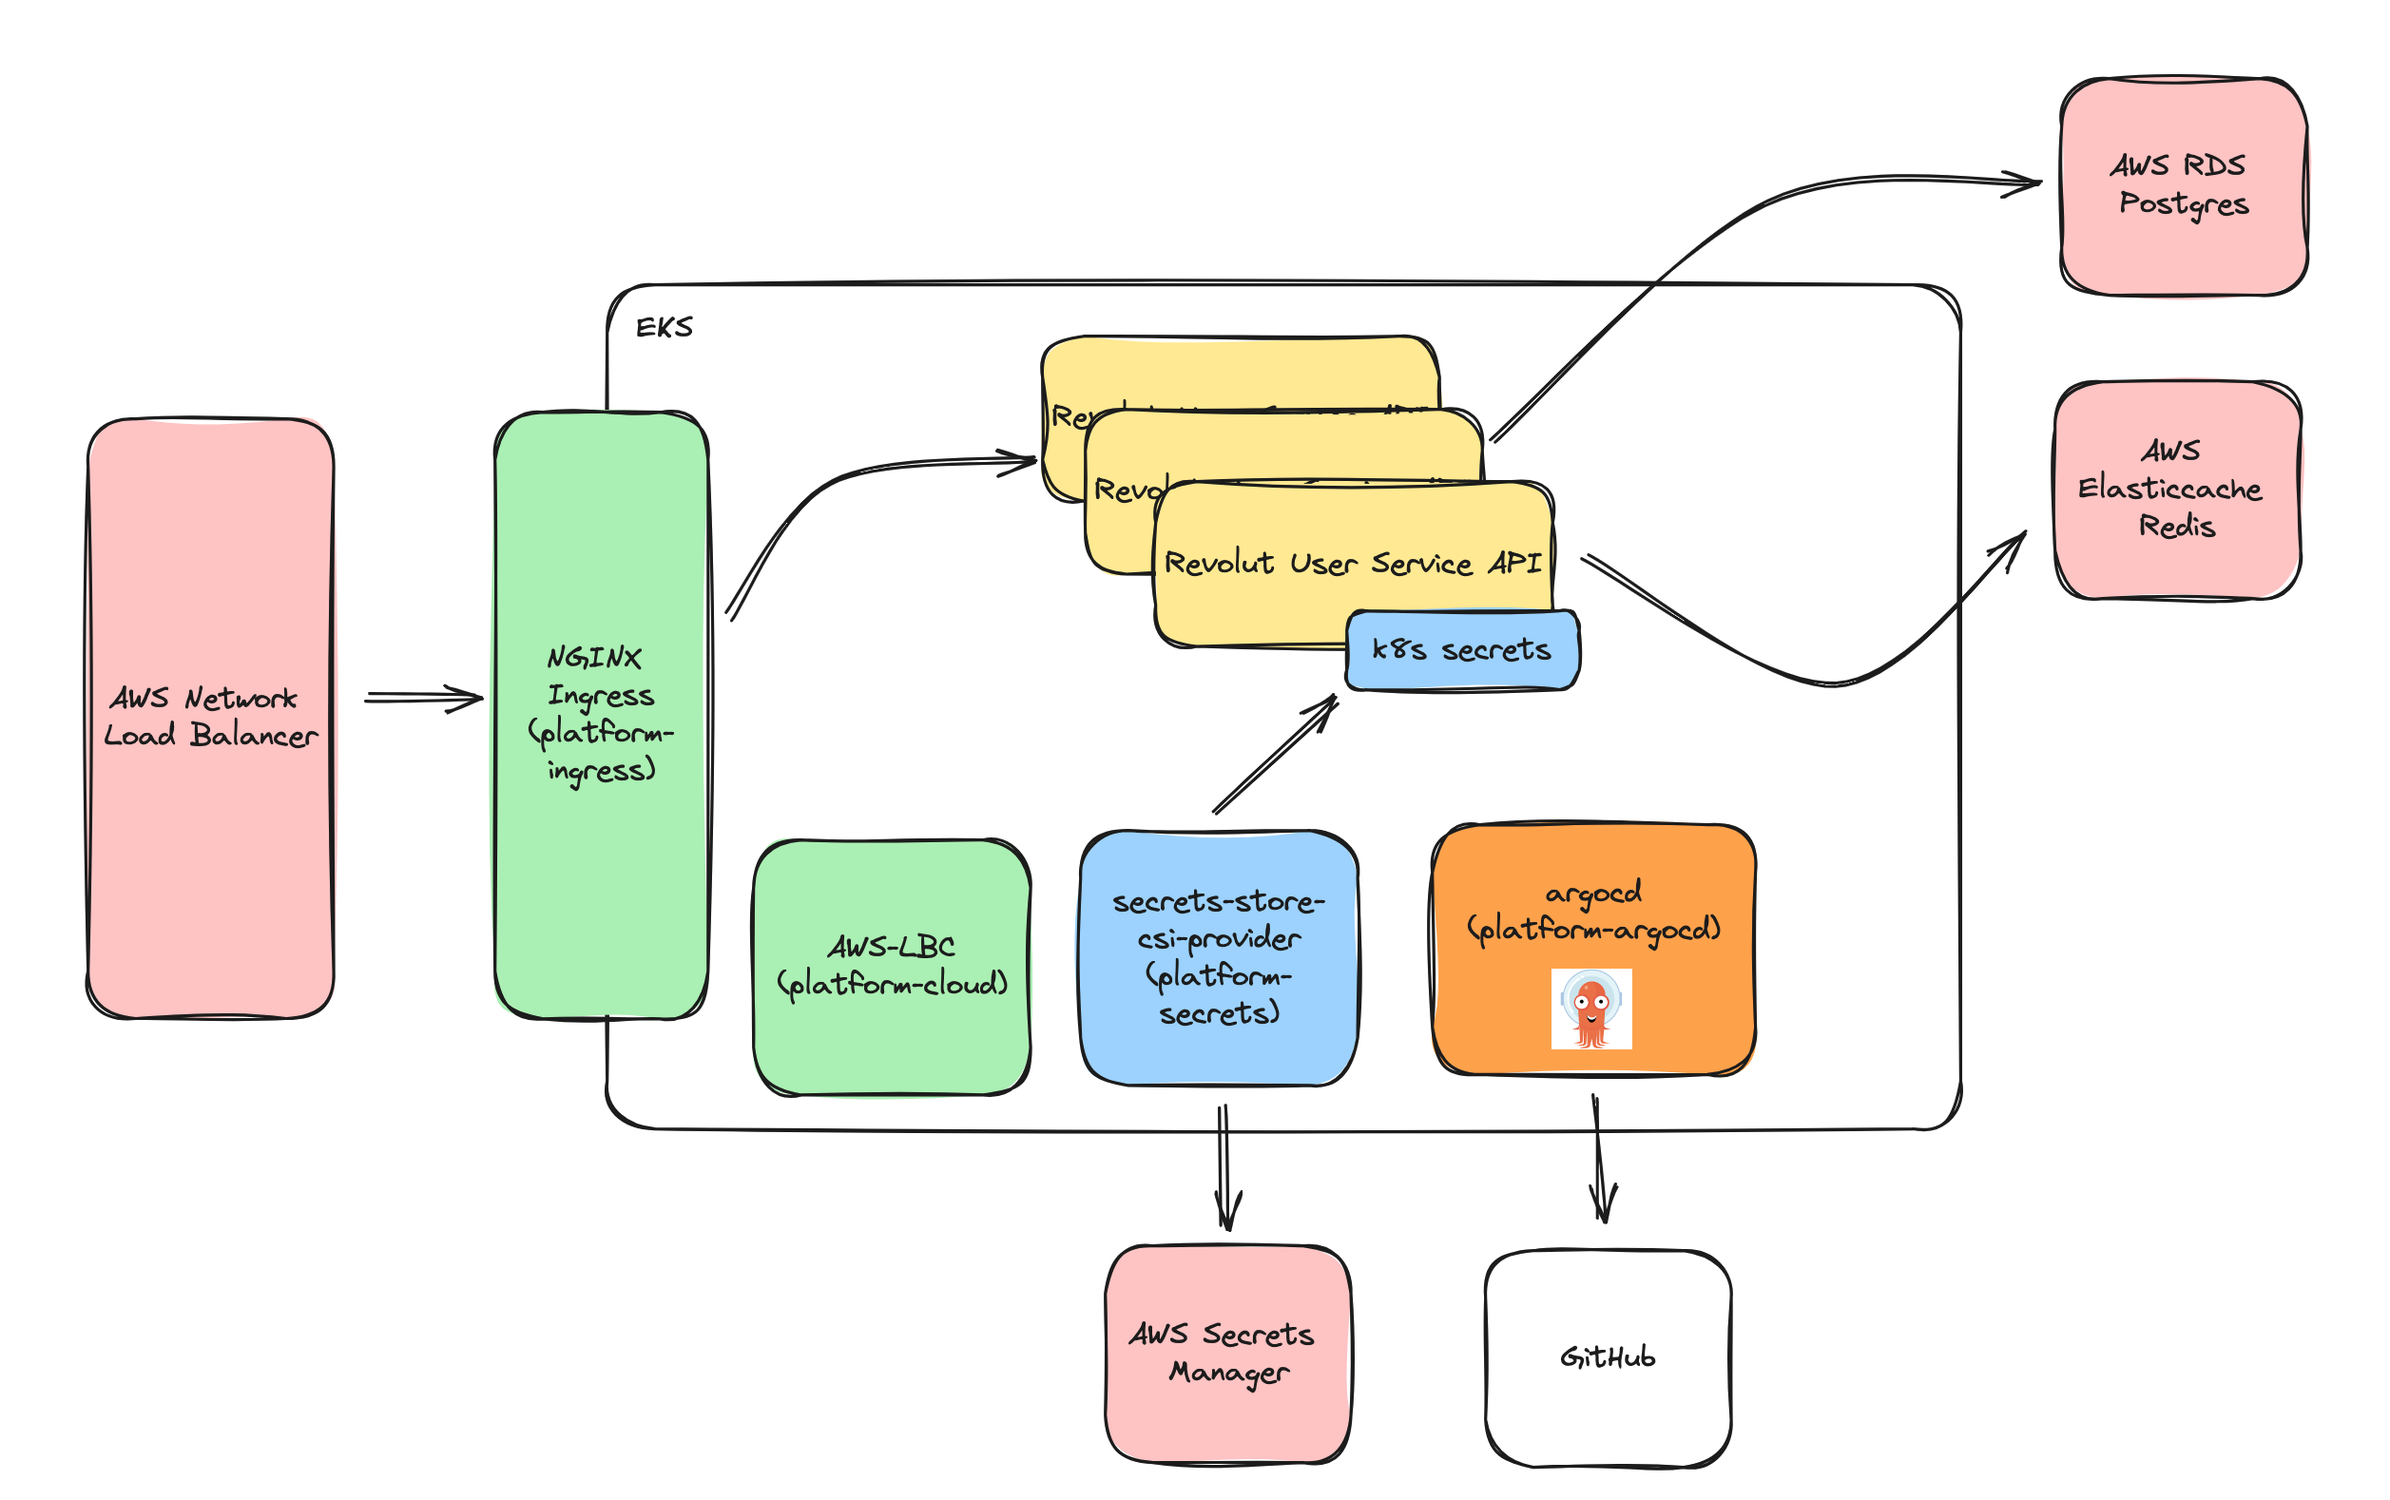
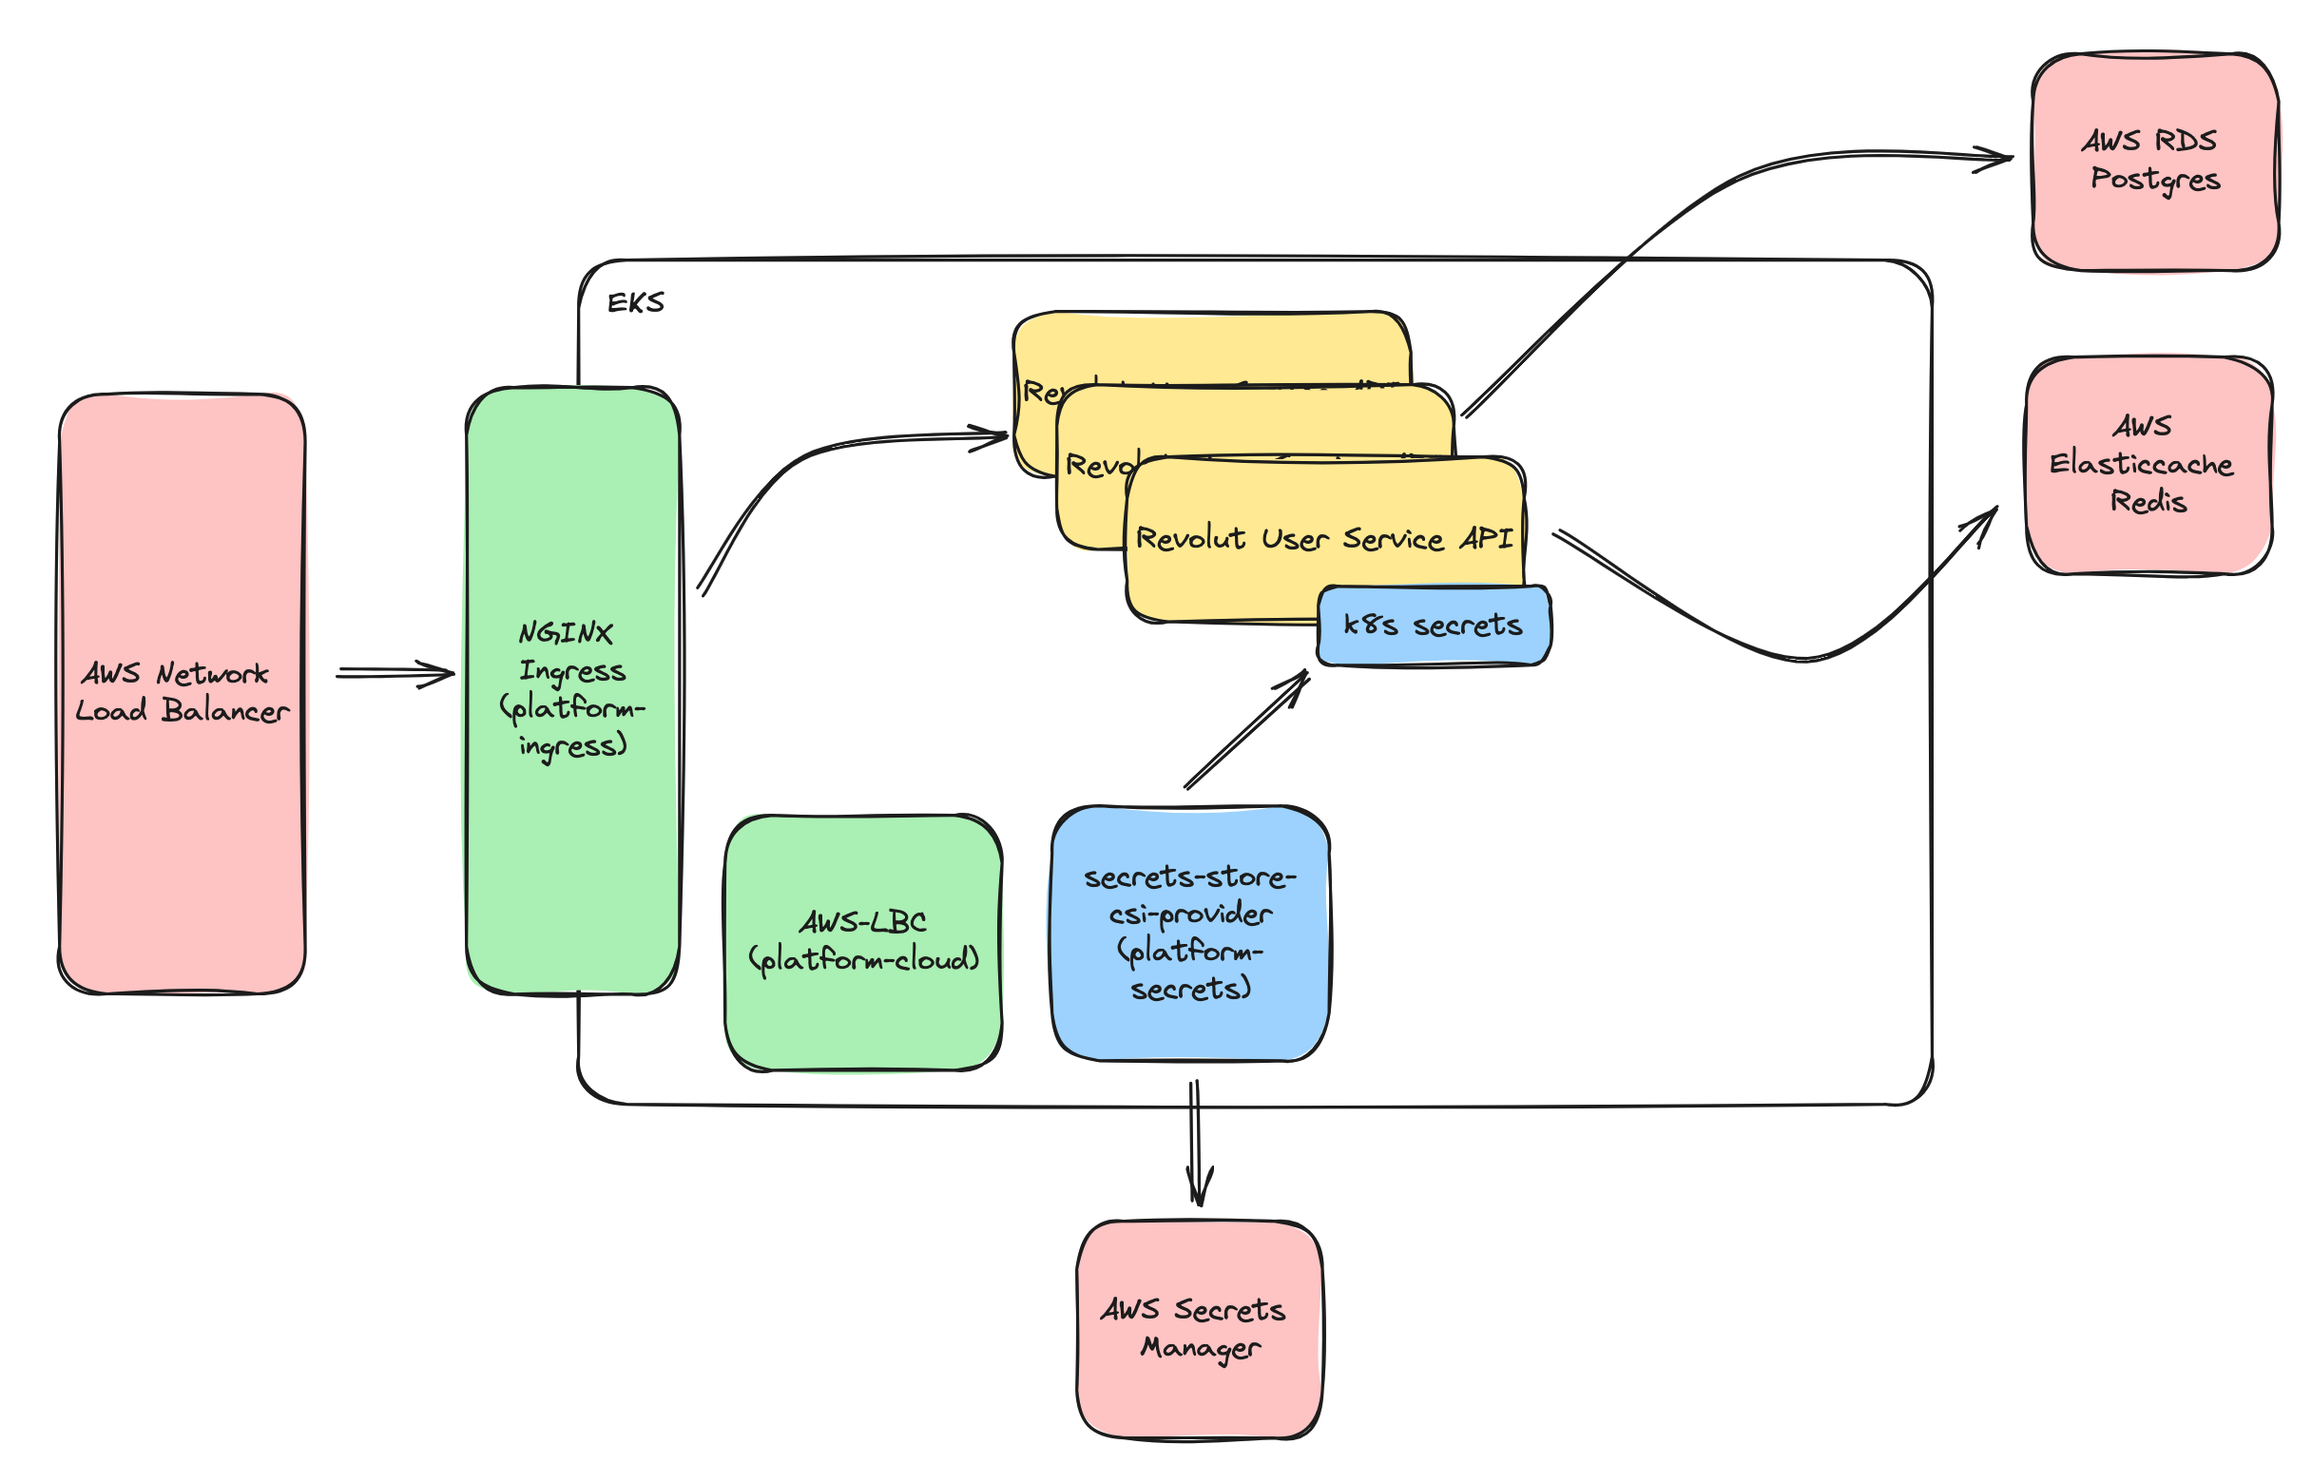
update nodegroup

diff --git a/docs/quick-start.md b/docs/quick-start.md
@@ -1,8 +1,12 @@
 # Quick Start
 
-0. Install `aws` CLI by following the instructions [here](https://docs.aws.amazon.com/cli/latest/userguide/getting-started-install.html) and create an AWS account for `terraform` with `AdministratorAccess` permission.
+## 0. Pre-requisites
 
-1. Provision all the cloud resources
+1. Install `aws` CLI by following the instructions [here](https://docs.aws.amazon.com/cli/latest/userguide/getting-started-install.html)
+2. Create an AWS account for `terraform` with `AdministratorAccess` permission.
+
+## 1. Provision AWS Cloud resources
+
 ```bash
 aws configure --profile terraform
 
@@ -11,9 +15,10 @@ terraform apply
 
 # Configure kube context
 aws eks update-kubeconfig --region eu-west-1 --name eks --profile terraform
+export EKS_KUBECTL_CONTEXT=`kubectl config current-context`
 ```
 
-2. Store the values of the following terraform output:
+Store the values of the following terraform output:
    * `aws_lbc_role_arn`
    * `ecr_repo_url`
    * `elasticache_cluster_configuration_endpoint`
@@ -22,44 +27,57 @@ aws eks update-kubeconfig --region eu-west-1 --name eks --profile terraform
    * `rds_password_secret_name`
    * `revolut_user_service_role_arn`
 
+## 2. Build Revolut User Service
 
-3. Clone `revolut-user-service`, run the following commands to build and push docker image:
+Clone `revolut-user-service`, run the following commands to build and push docker image:
+
 ```bash
-export IMAGE_TAG=`git describe --dirty --always`
+export IMAGE_TAG="0.1.0"
 export CONTAINER_REGISTRY=<ecr_repo_url from terraform (without the repo)>
 export CONTAINER_REPOSITORY=revolut-user-service
+
 make docker
 make docker-push
 ```
 
-4. Clone [`revolut-gitops-k8s`](https://github.com/awhdesmond/revolut-gitops-k8s) repository.
+## 3. Deploy EKS Platform Components
 
-5. In `revolut-gitops-k8s`, run the following commands to deploy platform components:
+Clone [`revolut-gitops-k8s`](https://github.com/awhdesmond/revolut-gitops-k8s) repository.
+
+In `revolut-gitops-k8s`, run the following commands to deploy platform components:
+
 ```bash
 # Use the output from terraform: aws_lbc_role_arn
 export AWS_LBC_ROLE_ARN=<aws_lbc_role_arn from terraform output>
 
-sed -i '' \
-    -e "s|eks.amazonaws.com\/role-arn:.*|eks.amazonaws.com/role-arn: ${AWS_LBC_ROLE_ARN}|g" \
-    kustomize/platform/components/aws-lbc/base/templates/serviceaccount.yaml
+./scripts/update-aws-fields-platform.sh
 
-make platform KUBE_CONTEXT=<EKS_KUBECTL_CONTEXT> ENV=prod
+make platform KUBE_CONTEXT=${EKS_KUBECTL_CONTEXT}
 ```
 
 > `aws-lbc` also requires the EKS cluster name. In this example, we are using `eks`.
 
 
-6. In `revolut-gitops-k8s`, run the following commands to deploy application components:
+## 4. Deploy Revolut User Service
+
+In `revolut-gitops-k8s`, run the following commands to deploy application components:
+
 ```bash
-export USER_SERVICE_ROLE_ARN=arn:aws:iam::974860574511:role/eks-revolut-user-service-role
+export USER_SERVICE_ROLE_ARN=<revolut_user_service_role_arn from terraform >
+export RDS_HOST=<first rds_hostnames from terraform>
+export REDIS_URI=<elasticache_cluster_configuration_endpoint from terraform>
 
-pushd kustomize/apps/components/user-service/api/prod
-sed -i '' \
-    -e "s|eks.amazonaws.com\/role-arn:.*|eks.amazonaws.com/role-arn: ${USER_SERVICE_ROLE_ARN}|g" \
-    sa.yaml
+./scripts/update-aws-fields-user-service.sh
 
-kustomize edit set image revolut-user-service=${CONTAINER_REGISTRY}/${CONTAINER_REPOSITORY}:${IMAGE_TAG}
-popd
+make user-service KUBE_CONTEXT=${EKS_KUBECTL_CONTEXT}
+```
 
-make user-service KUBE_CONTEXT=<EKS_KUBECTL_CONTEXT> ENV=<ENV>
+## 5. Perform Queries
+
+```bash
+export NGINX_NLB_HOSTNAME=`kubectl -n platform-ingress get svc ingress-nginx-controller -o jsonpath='{.status.loadBalancer.ingress[0].hostname}'`
+
+curl -XPUT -d '{"dateOfBirth": "2021-10-01"}' "http://${NGINX_NLB_HOSTNAME}/hello/apple" -w '%{http_code}\n'
+
+curl -XGET "http://${NGINX_NLB_HOSTNAME}/hello/apple"
 ```

diff --git a/docs/architecture.md b/docs/architecture.md
@@ -46,6 +46,11 @@ An EKS Kubernetes cluster is deployed in the VPC to provide container orchestrat
 
 An ECR repository is created to store container images for the user service.
 
+## Revolut Service Account Role
+
+We refactor the logic to create IAM roles for EKS Kubernetes service accounts into a module `eks-sa-role`. This module can be used to grant EKS Kubernetes service accounts permissions
+to retrieve secrets from AWS Secret manager.
+
 # EKS Components
 
 ![EKS](./eks.png)
@@ -64,12 +69,6 @@ The LBC is supported by AWS. Some clusters may be using the legacy "in-tree" fun
 
 Ingress controller for Kubernetes using NGINX as a reverse proxy and load balancer.
 
-### ArgoCD
-
-Argo CD is a declarative, GitOps continuous delivery tool for Kubernetes. Argo CD follows the **GitOps** pattern of using Git repositories as the source of truth for defining the desired application state.
-
-Argo CD automates the deployment of the desired application states in the specified target environments. Application deployments can track updates to branches, tags, or pinned to a specific version of manifests at a Git commit.
-
 ### Secrets Store CSI Provider
 
 Secrets Store CSI Driver for Kubernetes secrets - Integrates secrets stores with Kubernetes via a Container Storage Interface (CSI) volume.
@@ -84,3 +83,10 @@ Kubernetes `Deployment` of a simple "Hello World" application that manages users
 
 * Spread across AZs using `topologySpreadConstraints`
 * Interacts with RDS and Elasticache
+
+
+## Future Work
+
+1. Leverage on pgpool to load-balance queries between RDS primary and read replicas.
+2. Secure User Service API endpoint using authentication mechanism such as JWT and service accounts.
+3. Deploy metrics-server and use HPA/KEDA to dynamically autoscale user service deployment based on CPU usage.
